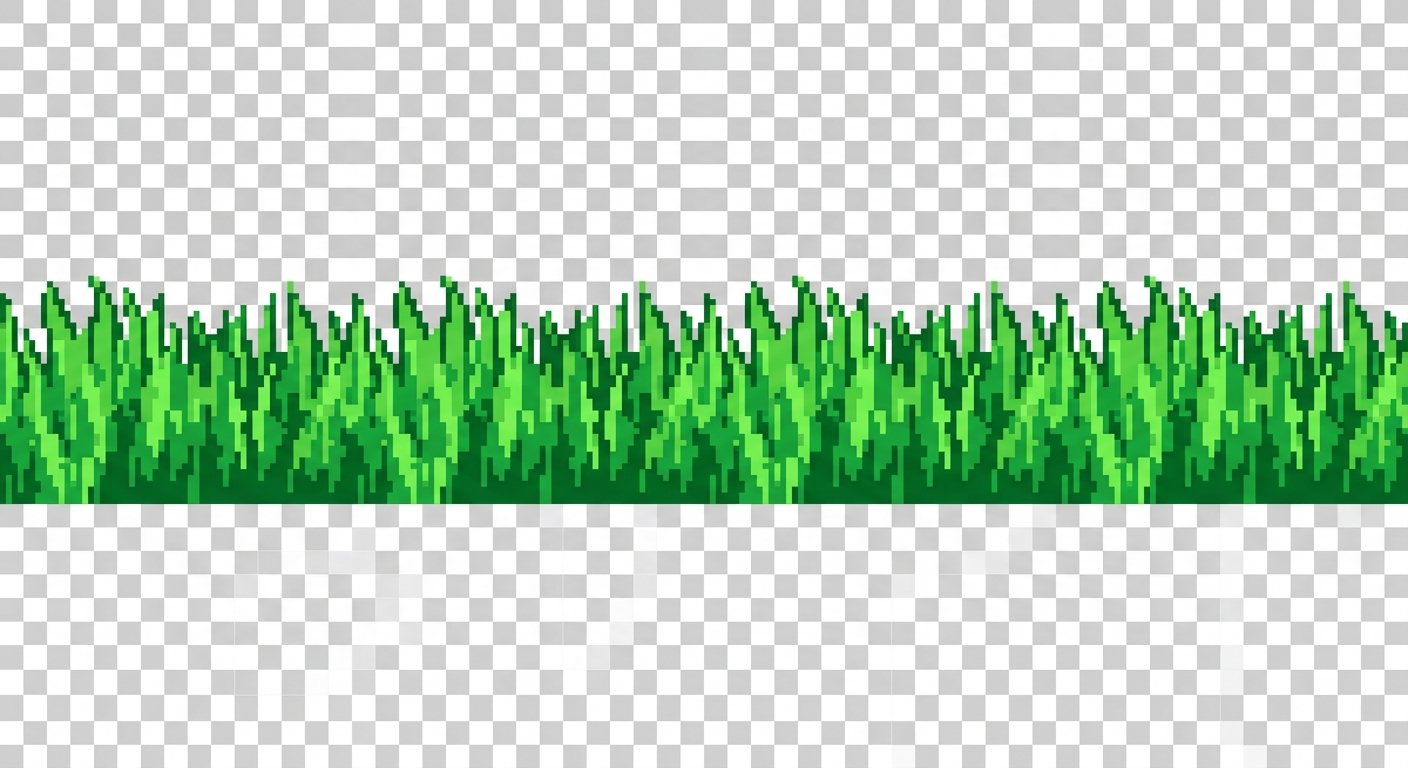
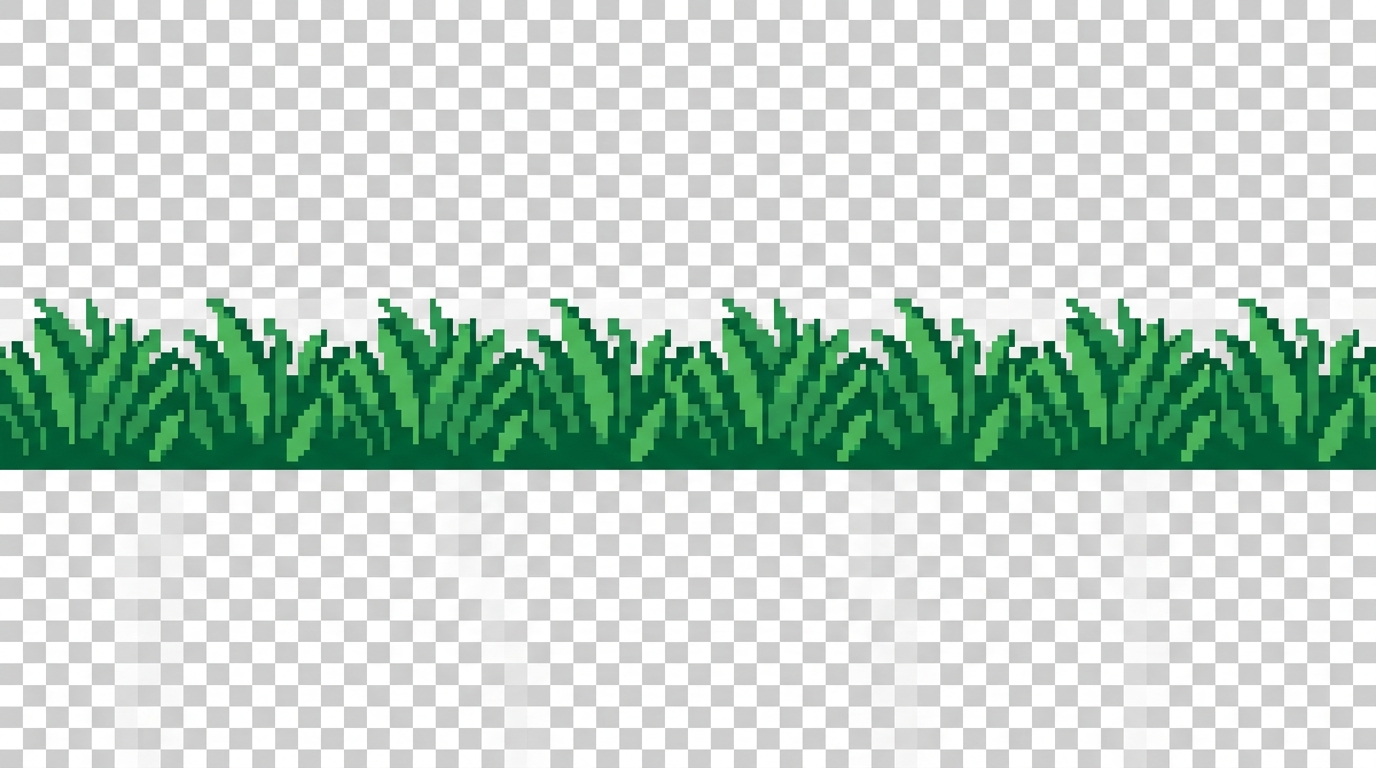
fix: crash on launch — moved processAppLaunch after UI init, safer event handling
- Root cause: processAppLaunch() fired achievements before panelWindow existed
- animatePetCelebration() accessed nil pet window layer → SIGTRAP
- Fix: moved processAppLaunch() to after all UI is created
- animatePetCelebration() is now a no-op (no main pet window)
- Added nil guard for panelWindow in handleGameEvent
- Regenerated cleaner grass strip image

diff --git a/Sources/NotchPet/PartyStrip.swift b/Sources/NotchPet/PartyStrip.swift
@@ -157,10 +157,11 @@ final class PartyStrip {
 
         let startX = auxRight.origin.x + 8
         let totalWidth = CGFloat(Self.slotCount) * (Self.pokemonSize + Self.spacing) - Self.spacing
-        let menuBarY = screen.frame.maxY - 32
+        let menuBarBottom = auxRight.origin.y  // bottom edge of the menu bar area
+        let menuBarHeight = auxRight.height     // 32pt
 
-        // --- Grass strip window (decorative, at the bottom of the menu bar) ---
-        let grassFrame = NSRect(x: startX - 4, y: menuBarY, width: totalWidth + 8, height: Self.grassHeight)
+        // --- Grass strip window (at the bottom of the menu bar) ---
+        let grassFrame = NSRect(x: startX - 4, y: menuBarBottom, width: totalWidth + 8, height: Self.grassHeight)
         let grassView = NSImageView(frame: NSRect(origin: .zero, size: grassFrame.size))
         grassView.imageScaling = .scaleAxesIndependently
         grassView.wantsLayer = true
@@ -189,8 +190,8 @@ final class PartyStrip {
         // --- Individual Pokemon windows (sitting in the grass) ---
         for i in 0..<Self.slotCount {
             let x = startX + CGFloat(i) * (Self.pokemonSize + Self.spacing)
-            // Pokemon sit with their bottom half behind the grass
-            let y = menuBarY + Self.grassHeight / 2 - Self.pokemonSize / 2 + 2
+            // Pokemon sit in the menu bar, vertically centered, slightly above the grass
+            let y = menuBarBottom + (menuBarHeight - Self.pokemonSize) / 2
 
             let petFrame = NSRect(x: x, y: y, width: Self.pokemonSize, height: Self.pokemonSize)
             let petView = GrassPetView(frame: NSRect(origin: .zero, size: petFrame.size))
@@ -213,8 +214,7 @@ final class PartyStrip {
             pokemonWindows.append(win)
         }
 
-        // Grass should appear IN FRONT of the Pokemon (they're behind it)
-        grassWin.order(.above, relativeTo: pokemonWindows.first?.windowNumber ?? 0)
+        // Grass renders in front — will be ordered after sprites are shown in refreshSprites()
 
         isVisible = true
         refreshSprites()
@@ -288,8 +288,6 @@ final class PartyStrip {
                 petView.imageView.image = PetCollection.spriteImage(for: id)
                 win.orderFront(nil)
                 petView.startIdleJumping()
-                // Keep grass in front
-                grassWindow?.order(.above, relativeTo: win.windowNumber)
             } else {
                 petView.pokemonId = ""
                 petView.imageView.image = nil
@@ -297,5 +295,7 @@ final class PartyStrip {
                 win.orderOut(nil)
             }
         }
+        // Bring grass in front of all Pokemon
+        grassWindow?.orderFront(nil)
     }
 }

diff --git a/Sources/NotchPet/AppDelegate.swift b/Sources/NotchPet/AppDelegate.swift
@@ -21,7 +21,7 @@ final class AppDelegate: NSObject, NSApplicationDelegate {
         gameSystems.onEvent = { [weak self] event in
             self?.handleGameEvent(event)
         }
-        gameSystems.processAppLaunch()
+        // processAppLaunch moved to after all UI is set up (below)
 
         // Pet window
         petWindow = PetWindow()
@@ -137,6 +137,9 @@ final class AppDelegate: NSObject, NSApplicationDelegate {
             self?.gameSystems.tick()
         }
 
+        // Now that all UI is ready, process app launch (may fire events)
+        gameSystems.processAppLaunch()
+
         // Auto-launch on first run
         if !Preferences.shared.hasLaunchedBefore {
             Preferences.shared.hasLaunchedBefore = true
@@ -217,7 +220,7 @@ final class AppDelegate: NSObject, NSApplicationDelegate {
             break
         }
 
-        if panelWindow.isOpen {
+        if panelWindow != nil && panelWindow.isOpen {
             panelWindow.refreshData(petState)
         }
     }
@@ -273,12 +276,8 @@ final class AppDelegate: NSObject, NSApplicationDelegate {
     }
 
     private func animatePetCelebration() {
-        let petView = petWindow.petView
-        let celebrate = CAKeyframeAnimation(keyPath: "transform.scale")
-        celebrate.values = [1.0, 1.3, 0.9, 1.1, 1.0]
-        celebrate.keyTimes = [0, 0.2, 0.5, 0.8, 1.0]
-        celebrate.duration = 0.5
-        petView.imageView.layer?.add(celebrate, forKey: "celebrate")
+        // No longer using the pet window — celebration is visual in the party strip
+        // Could add a party-wide bounce here in the future
     }
 
     // MARK: - Party Strip

diff --git a/Sources/NotchPet/PetState.swift b/Sources/NotchPet/PetState.swift
@@ -231,9 +231,17 @@ final class PetState: Codable {
     private static let storageKey = "notchpet.petState"
 
     static func load() -> PetState {
-        guard let data = UserDefaults.standard.data(forKey: storageKey),
-              let state = try? JSONDecoder().decode(PetState.self, from: data)
-        else {
+        guard let data = UserDefaults.standard.data(forKey: storageKey) else {
+            let fresh = PetState()
+            fresh.initializeDefaults()
+            return fresh
+        }
+
+        let state: PetState
+        do {
+            state = try JSONDecoder().decode(PetState.self, from: data)
+        } catch {
+            NSLog("NotchPet: Failed to decode PetState: \(error). Using existing data as base.")
             let fresh = PetState()
             fresh.initializeDefaults()
             return fresh
